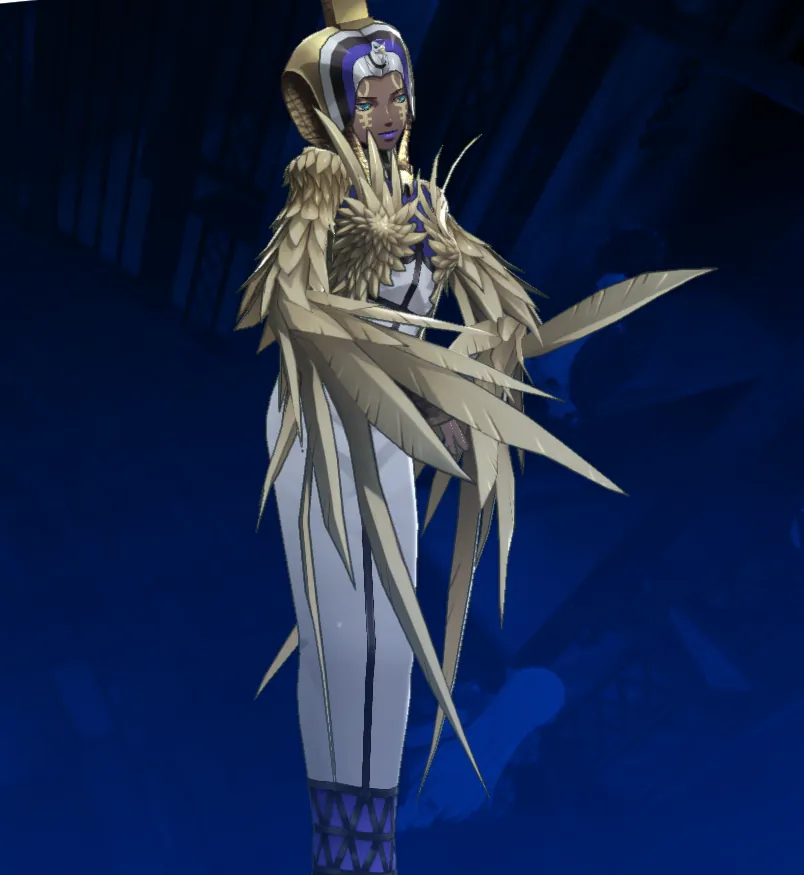
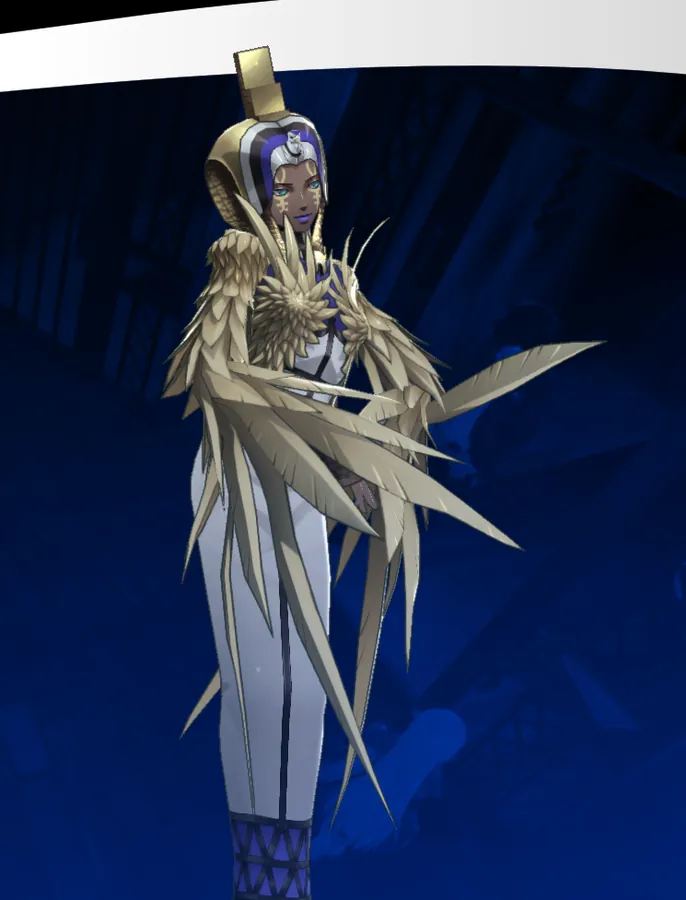
Fotos: Personas de la N a la Z; con franja blanca donde la cara queda sobre ella
Claude-Session: https://claude.ai/code/session_01TLD9DxtzdAPGjt2ektcgBd

diff --git a/scripts/import-photos/personas.py b/scripts/import-photos/personas.py
@@ -123,6 +123,7 @@ def main(src, game_text, personas_json, party_json, out):
     manual = json.load(open(os.path.join(here, 'recortes.json')))
     # fotos donde la franja del menú tapa la cabeza: se pinta en vez de recortarla
     paint = set(manual.get('_pintar_franja', []))
+    with_band = set(manual.get('_con_franja', []))  # la cara quedó sobre la franja: se deja tal cual
     paint_strict = set(manual.get('_pintar_franja_estricta', []))  # figura gris clara delante de la franja
     sys.path.insert(0, here)
     # las que se procesan con tercer_semestre.py (otro fondo) no se tocan acá
@@ -143,7 +144,13 @@ def main(src, game_text, personas_json, party_json, out):
             strict = f'{pid}-{side}' in paint_strict
             painted = f'{pid}-{side}' in paint or strict
             if painted: raw = paint_band(raw, strict)
-            im = raw.crop(tuple(box)) if box else trim(raw, keep_top=painted)
+            if f'{pid}-{side}' in with_band and not box:
+                # la cara está sobre la franja blanca: se deja la franja (se corta solo el negro de arriba)
+                w0, h0 = raw.size
+                top = next((y for y in range(min(150, h0)) if bright_ratio(raw, (0, y, w0, y + 1)) > 0.15), 0)
+                im = trim(raw.crop((0, top, w0, h0)), keep_top=True)
+            else:
+                im = raw.crop(tuple(box)) if box else trim(raw, keep_top=painted)
             extra = manual.get('_aire_arriba', {}).get(f'{pid}-{side}')
             if extra:  # la figura toca el borde de arriba: se agrega fondo para que respire
                 im = add_headroom(im, extra)
